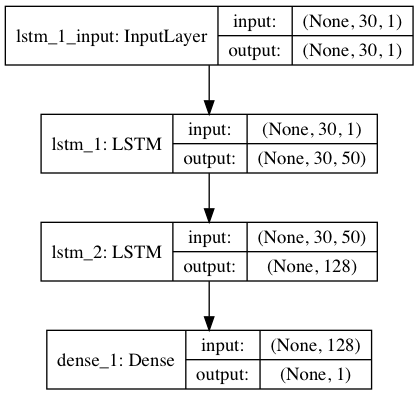
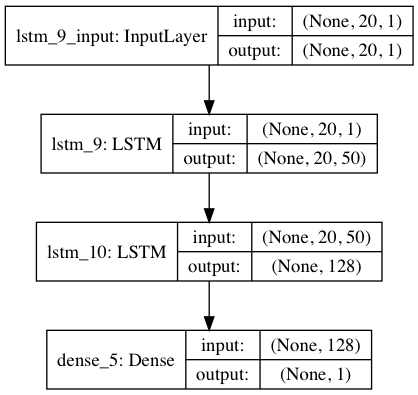
Add: LSTM 18 model, day 1 - 5

diff --git a/test_lstm_2.py b/test_lstm_2.py
@@ -1,0 +1,145 @@
+import csv
+import math
+import numpy as np
+from numpy import newaxis
+from keras.models import Sequential, load_model
+from keras.layers.core import Dense, Activation, Dropout
+from keras.layers.recurrent import LSTM
+from keras.layers.advanced_activations import LeakyReLU
+from keras.utils import plot_model
+import matplotlib.pyplot as plt
+from sklearn.preprocessing import MinMaxScaler
+
+from utils import file_processing_2, data_processing_2
+
+def load_data(data, time_step, after_day=1, validate_percent=0.67):
+    seq_length = time_step + after_day
+    result = []
+    for index in range( len(data) - seq_length + 1):
+        result.append(data[index: index + seq_length])
+
+    result = np.array(result)
+    print(result.shape)
+
+    train_size = int(len(result) * validate_percent)
+    train = result[:train_size, :]
+    validate = result[train_size:, :]
+
+    x_train = train[:, :time_step]
+    y_train = train[:, -1]
+    x_validate = validate[:, :time_step]
+    y_validate = validate[:, -1]
+
+
+    return [x_train, y_train, x_validate, y_validate]
+
+def build_model(units, input_shape=(None, None)):
+    model = Sequential()
+
+    model.add(LSTM(units=50,input_shape=input_shape,return_sequences=True))
+    #model.add(Dropout(0.2))
+
+    model.add(LSTM(units=128,return_sequences=False))
+    #model.add(Dropout(0.2))
+
+    #model.add(Dense(units=16, activation='linear'))
+    model.add(Dense(units=1, activation='linear'))
+
+    return model
+
+
+if __name__ == '__main__':
+    scaler = MinMaxScaler(feature_range=(0, 1))
+
+    _class = '52'
+    time_step = 20
+    validate_percent = 0.67
+    batch_size = 64
+    epochs = 300
+    ans = []
+
+    data = file_processing_2('data/0427_{}.csv'.format(_class))
+    x_test = data[-time_step:]
+    x_test = np.reshape(x_test, (1, x_test.shape[0], x_test.shape[1]))
+    data = data_processing_2(data, scaler)
+
+    for i in range(5):
+        print('================================== day {} =================================='.format(i + 1))
+        after_day = i + 1
+
+        x_train, y_train, x_validate, y_validate = load_data(data, time_step=time_step, after_day=after_day, validate_percent=validate_percent)
+        print('train: ', x_train.shape, y_train.shape)
+        print('validate: ', x_validate.shape, y_validate.shape)
+
+        print('last x data: \n', scaler.inverse_transform(x_validate[-1]))
+        y = np.reshape(y_validate[-1], (1, 1))
+        print('last y data: \n', scaler.inverse_transform(y))
+
+        input_shape = (x_train.shape[1], x_train.shape[2])
+        model = build_model(x_train.shape[1], input_shape)
+        model.compile(loss='mse', optimizer='adam')
+        #model.summary()
+        plot_model(model, to_file='images/model.png', show_shapes=True)
+
+        model.fit(x_train, y_train, batch_size=batch_size, epochs=epochs, verbose=2)
+        model.save('model/lstm_00{}_day{}.h5'.format(_class, i+1))
+
+        train_score = model.evaluate(x_train, y_train, verbose=0)
+        print('Train Score: %.8f MSE (%.8f RMSE)' % (train_score, math.sqrt(train_score)))
+
+        validate_score = model.evaluate(x_validate, y_validate, verbose=0)
+        print('Test Score: %.8f MSE (%.8f RMSE)' % (validate_score, math.sqrt(validate_score)))
+
+        #model = load_model('model/lstm_0050_2.h5')
+
+        train_predict = model.predict(x_train, batch_size=batch_size)
+        validate_predict = model.predict(x_validate, batch_size=batch_size)
+        test_predict = model.predict(x_test)
+
+        # 回復預測資料值為原始數據的規模
+        train_predict = scaler.inverse_transform(train_predict)
+        y_train = scaler.inverse_transform(y_train)
+        validate_predict = scaler.inverse_transform(validate_predict)
+        y_validate = scaler.inverse_transform(y_validate)
+        test_predict = scaler.inverse_transform(test_predict)
+
+        plt.figure()
+
+        plt.plot(y_validate,color='black')
+        plt.plot(validate_predict,color='red')
+        plt.savefig('images/result_00{}_day{}.png'.format(_class ,i+1))
+
+        ans.append(test_predict)
+
+        #plt.show()
+
+    print(ans)
+
+    with open('outputs/output_00{}.csv'.format(_class), 'w+') as file:
+        w = csv.writer(file)
+
+        w.writerows(ans)
+
+
+    '''
+    # 預測未來n天的股價
+    n_day = 6
+    ans = np.zeros((n_day, 1))
+    test = x_validate[-1] # 最後n天
+    print(scaler.inverse_transform(test), '\n')
+    test = np.reshape(test, (1, test.shape[0], test.shape[1]))
+
+
+    print('======================================================')
+
+    for i in range(n_day):
+        test_predict = model.predict(test)
+        ans[i] = test_predict
+
+        test = np.delete(test, 0, axis=1)
+        test_predict = np.reshape(test_predict, (1, test_predict.shape[0], test_predict.shape[1]))
+        test = np.concatenate((test, test_predict),axis=1)
+
+    ans = scaler.inverse_transform(ans)
+    print(ans)
+    '''

diff --git a/test_lstm.py b/test_lstm.py
@@ -4,6 +4,7 @@ from numpy import newaxis
 from keras.models import Sequential
 from keras.layers.core import Dense, Activation, Dropout
 from keras.layers.recurrent import LSTM
+from keras.layers.advanced_activations import LeakyReLU
 from keras.utils import plot_model
 import matplotlib.pyplot as plt
 
@@ -23,26 +24,27 @@ def load_data(data, time_step):
     train = result[:train_size, :]
     validate = result[train_size:, :]
 
-    x_train = train[:, :-1, -1]
+    x_train = train[:, :-1]
     y_train = train[:, -1, -1]
-    x_validate = validate[:, :-1, -1]
+    x_validate = validate[:, :-1]
     y_validate = validate[:, -1, -1]
 
-    x_train = np.reshape(x_train, (x_train.shape[0], x_train.shape[1], 1))
-    x_validate = np.reshape(x_validate, (x_validate.shape[0], x_validate.shape[1], 1))
+    x_train = np.reshape(x_train, (x_train.shape[0], x_train.shape[1], 5))
+    x_validate = np.reshape(x_validate, (x_validate.shape[0], x_validate.shape[1], 5))
 
     return [x_train, y_train, x_validate, y_validate]
 
 def build_model(units, input_shape=(None, None)):
     model = Sequential()
 
-    model.add(LSTM(units=50,input_shape=input_shape,return_sequences=True))
-    #model.add(Dropout(0.2))
+    model.add(LSTM(units=256,input_shape=input_shape,return_sequences=True))
+    model.add(Dropout(0.3))
 
-    model.add(LSTM(units=128,return_sequences=False))
-    #model.add(Dropout(0.2))
+    model.add(LSTM(units=256,return_sequences=False))
+    model.add(Dropout(0.3))
 
-    model.add(Dense(units=1, activation='linear'))
+    model.add(Dense(units=16, kernel_initializer="uniform", activation='relu'))
+    model.add(Dense(units=1, kernel_initializer="uniform", activation='linear'))
 
     return model
 
@@ -50,13 +52,13 @@ if __name__ == '__main__':
     class_data = file_processing('data/20180331/taetfp.csv', 'big5', 18)
     class_data = data_processing(class_data)
 
-    time_step = 30
+    time_step = 20
     batch_size = 64
+    epochs = 100
 
     x_train, y_train, x_validate, y_validate = load_data(class_data, time_step=time_step)
     print('train: ', x_train.shape, y_train.shape)
     print('validate: ', x_validate.shape, y_validate.shape)
-
 
     input_shape = (x_train.shape[1], x_train.shape[2])
     model = build_model(x_train.shape[1], input_shape)
@@ -64,7 +66,7 @@ if __name__ == '__main__':
     model.summary()
     plot_model(model, to_file='images/model.png', show_shapes=True)
 
-    model.fit(x_train, y_train, batch_size=batch_size, epochs=100, verbose=2)
+    model.fit(x_train, y_train, batch_size=batch_size, epochs=epochs, verbose=2)
     model.save('model/test_lstm.h5')
 
     train_score = model.evaluate(x_train, y_train, verbose=0)
@@ -90,4 +92,3 @@ if __name__ == '__main__':
     plt.savefig('images/result.png')
 
     plt.show()
-

diff --git a/utils.py b/utils.py
@@ -37,6 +37,25 @@ def file_processing(file_path, encode, num_etf):
 
     return np.array(data)
 
+def file_processing_2(file_path, encode=None):
+    data = []
+
+    with open(file_path, encoding=encode) as file:
+        rows = csv.reader(file, delimiter=",")
+        n_row = 0
+
+        for row in rows:
+            if n_row != 0:
+                for i in range(2, len(row)):
+                    data[n_row - 1].append(float(row[i].strip()))
+
+            data.append([])
+            n_row += 1
+
+    del data[-1]
+    return np.array(data)
+
+
 def data_processing(data):
     for i in range(len(data)):
         data[i] = np.reshape(data[i], (-1, 5))
@@ -51,14 +70,26 @@ def data_processing(data):
         Low = np.reshape(Low, (1, -1))
         Close = scaler.fit_transform(data[i][:, 3].reshape(-1,1))
         Close = np.reshape(Close, (1, -1))
+        Volume = scaler.fit_transform(data[i][:, 4].reshape(-1,1))
+        Volume = np.reshape(Volume, (1, -1))
 
         data[i][:, 0] = Open
         data[i][:, 1] = High
         data[i][:, 2] = Low
         data[i][:, 3] = Close
+        data[i][:, 4] = Volume
 
         # Changed data
         for n in range(len(data[i])):
             data[i][n][-2], data[i][n][-1] = data[i][n][-1], data[i][n][-2]
+
+    return data
+
+def data_processing_2(data, scaler):
+    # Normalize data
+    for i in range(len(data[0])):
+        normalize = scaler.fit_transform(data[:, i].reshape(-1, 1))
+        normalize = np.reshape(normalize, (1, -1))
+        data[:, i] = normalize
 
     return data
